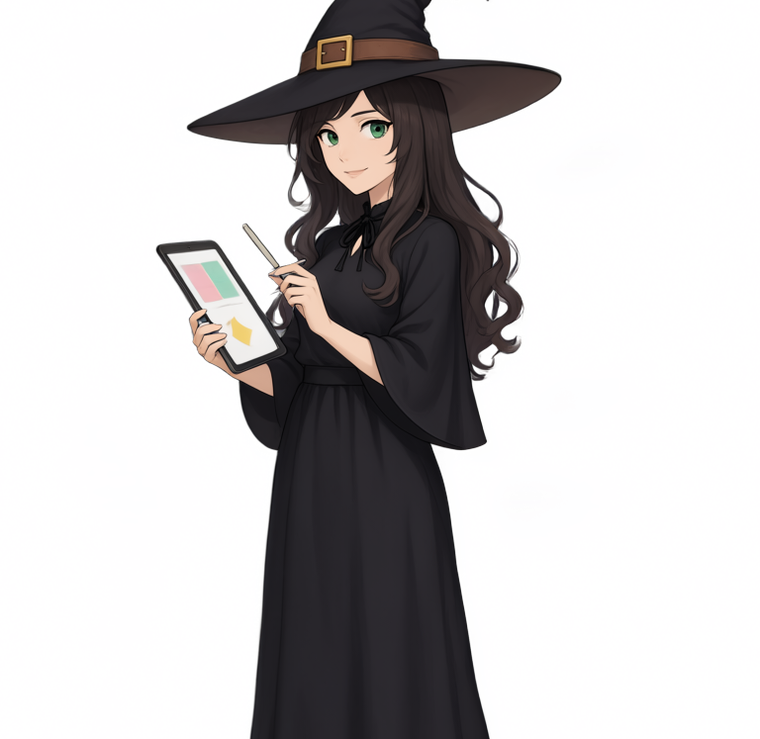
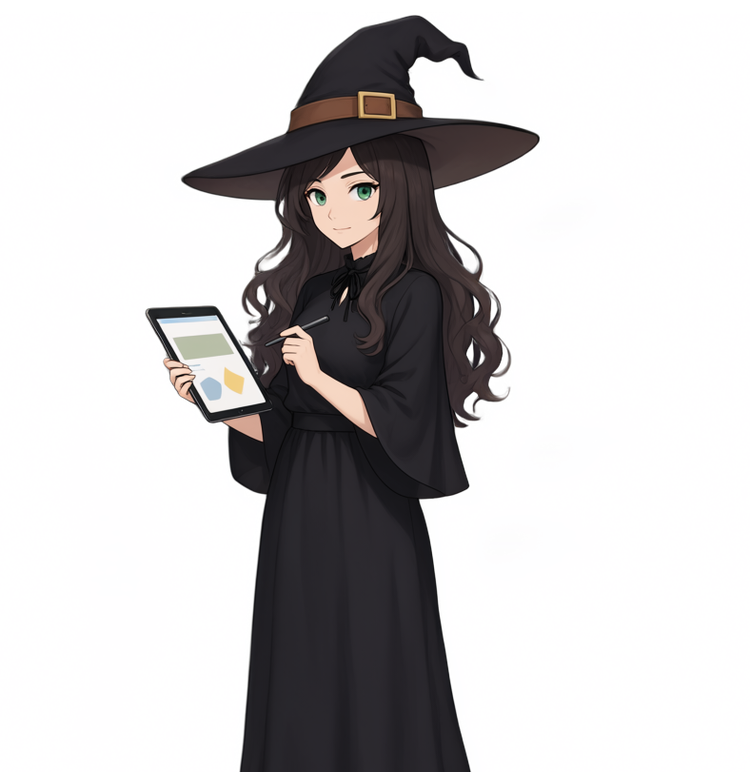
Regenerate design illustration with the shared face

Changed region(s): [[0.184, 0.0, 0.736, 1.0]]

diff --git a/src/api/assets.rs b/src/api/assets.rs
@@ -385,8 +385,8 @@ pub const SERVICE_ART: [ServiceArt; 19] = [
     ServiceArt {
         slug: "design-figma",
         image: include_bytes!("../../assets/services/design-figma.png"),
-        width: 760,
-        height: 739,
+        width: 750,
+        height: 772,
     },
     ServiceArt {
         slug: "desktop-apps",
